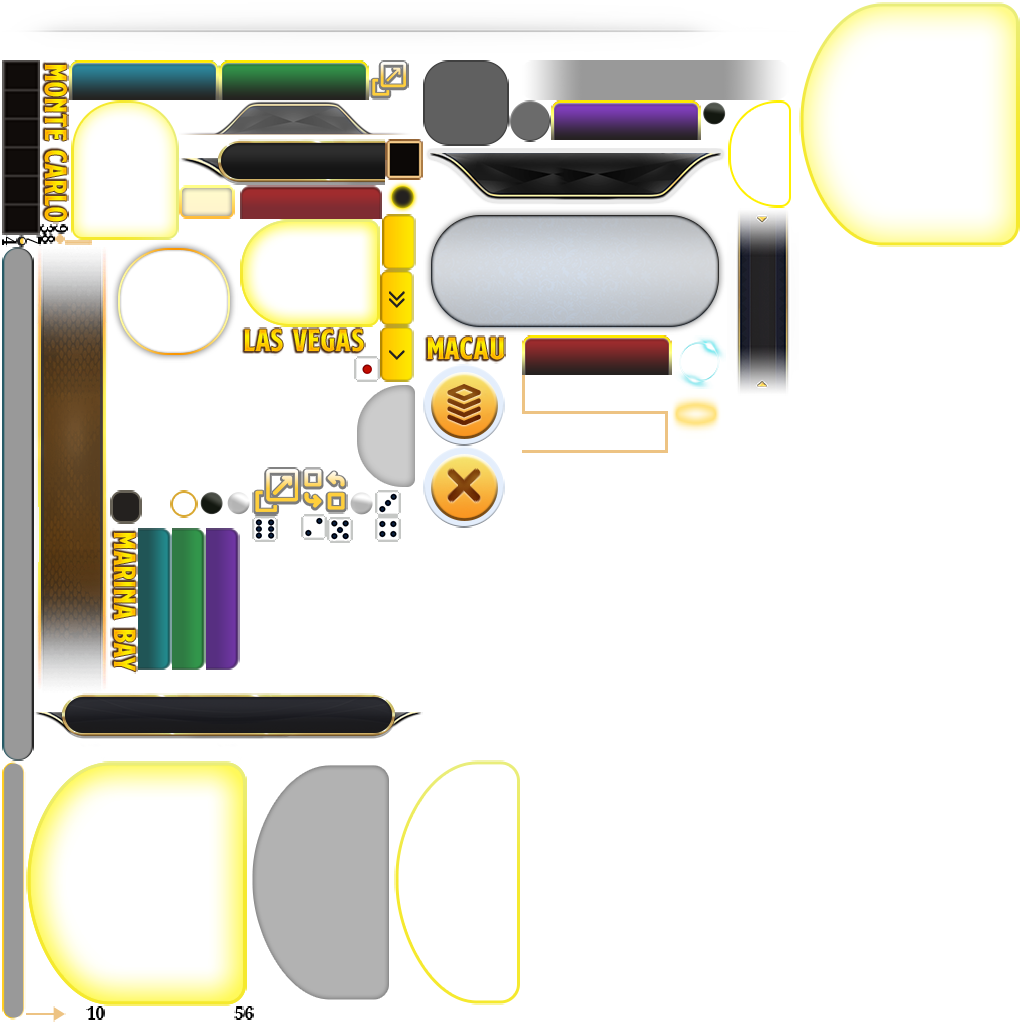
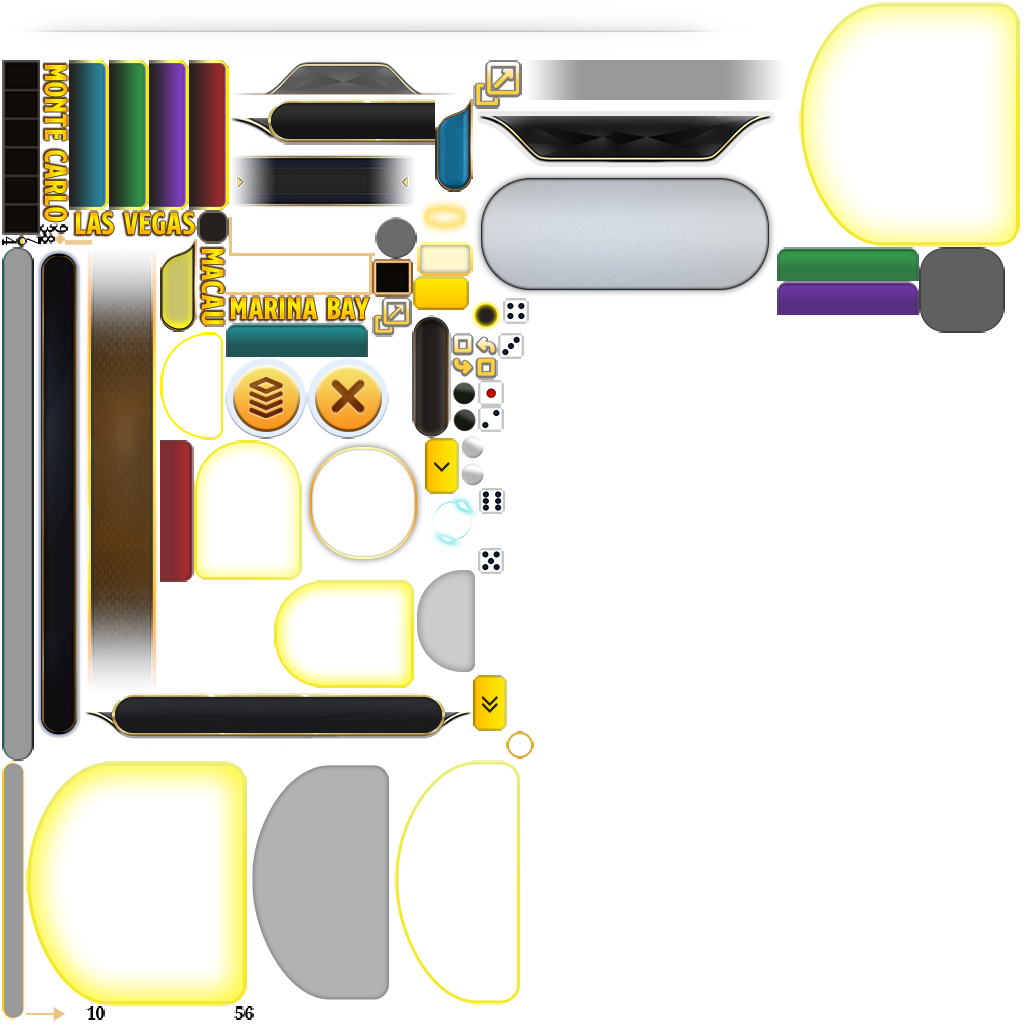
feat: change image MD5 for mega bigsmall

Changed region(s): [[0.0312, 0.0312, 1.0, 0.7188], [0.5, 0.7188, 0.5312, 0.75]]

diff --git a/0_texturepacker/pack-resources.py b/0_texturepacker/pack-resources.py
@@ -8,7 +8,7 @@ if __name__ == '__main__':
     current_dir = os.path.dirname(os.path.realpath(__file__))
     project_dir = os.path.join(current_dir, '..')
 
-    images_dir = 'mini-sedie-multiplay'
+    images_dir = 'mini-panel/images'
 
     # Pack.
     packer_path = os.path.join(
